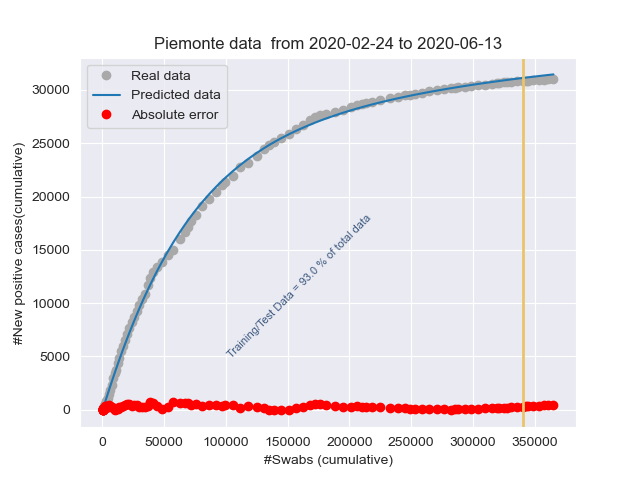
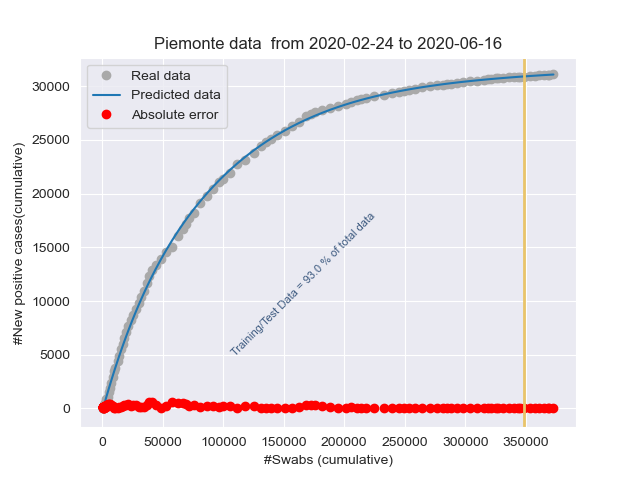
Add files via upload

diff --git a/stat_Emilia-Romagna.html b/stat_Emilia-Romagna.html
@@ -1,1 +1,1 @@
-<!DOCTYPE html><html lang="it"><head><title>Results</title><meta charset="utf-8"><meta name="viewport" content="width=device-width, initial-scale=1"><link rel="stylesheet" href="bootstrap.min.css"><script src="https://ajax.googleapis.com/ajax/libs/jquery/3.4.1/jquery.min.js"></script><script src="https://maxcdn.bootstrapcdn.com/bootstrap/3.4.1/js/bootstrap.min.js"></script></head><body><h3>Day: 2020-06-13</h3><p class="lead my-3">New positive cases: <b>28</b></p><p class="lead my-3">Variation of positive cases: <b>-15.15%</b></p><p class="lead my-3">Number of swabs: <b>7363.0</b></p><p class="lead my-3">Variation of swabs: <b>1.87%</b></p><p class="lead my-3">Postive cases/Swabs: <b>0.38 %</b></p><p class="lead my-3">Number of people admitted to Intensive care: <b>15</b></p><p class="lead my-3">Number of recovered people: <b>115.0</b></p><p class="lead my-3">Number of dead people: <b>3.0</b></p><h3>Total</h3><p class="lead my-3">Population of  Emilia-Romagna: <b>4459477</b> <a href="http://dati.istat.it/Index.aspx?QueryId=18548" target="_blank">ISTAT data</a></p><p class="lead my-3">Total number of positive cases from 2020-02-24 00:00:00 to 2020-06-13: <b> 28056</b></p><p class="lead my-3">Total number of swabs from 2020-02-24 00:00:00 to 2020-06-13: <b> 400902</b></p><p class="lead my-3">TotalSwabs/Population: <b> 8.99%</b></p></body></html>
+<!DOCTYPE html><html lang="it"><head><title>Results</title><meta charset="utf-8"><meta name="viewport" content="width=device-width, initial-scale=1"><link rel="stylesheet" href="bootstrap.min.css"><script src="https://ajax.googleapis.com/ajax/libs/jquery/3.4.1/jquery.min.js"></script><script src="https://maxcdn.bootstrapcdn.com/bootstrap/3.4.1/js/bootstrap.min.js"></script></head><body><h3>Day: 2020-06-16</h3><p class="lead my-3">New positive cases: <b>13</b></p><p class="lead my-3">Variation of positive cases: <b>18.18%</b></p><p class="lead my-3">Number of swabs: <b>6200.0</b></p><p class="lead my-3">Variation of swabs: <b>1.51%</b></p><p class="lead my-3">Postive cases/Swabs: <b>0.21 %</b></p><p class="lead my-3">Number of people admitted to Intensive care: <b>11</b></p><p class="lead my-3">Number of recovered people: <b>106.0</b></p><p class="lead my-3">Number of dead people: <b>2.0</b></p><h3>Total</h3><p class="lead my-3">Population of  Emilia-Romagna: <b>4459477</b> <a href="http://dati.istat.it/Index.aspx?QueryId=18548" target="_blank">ISTAT data</a></p><p class="lead my-3">Total number of positive cases from 2020-02-24 00:00:00 to 2020-06-16: <b> 28097</b></p><p class="lead my-3">Total number of swabs from 2020-02-24 00:00:00 to 2020-06-16: <b> 417184</b></p><p class="lead my-3">TotalSwabs/Population: <b> 9.35%</b></p></body></html>

diff --git a/stat_Friuli Venezia Giulia.html b/stat_Friuli Venezia Giulia.html
@@ -1,1 +1,1 @@
-<!DOCTYPE html><html lang="it"><head><title>Results</title><meta charset="utf-8"><meta name="viewport" content="width=device-width, initial-scale=1"><link rel="stylesheet" href="bootstrap.min.css"><script src="https://ajax.googleapis.com/ajax/libs/jquery/3.4.1/jquery.min.js"></script><script src="https://maxcdn.bootstrapcdn.com/bootstrap/3.4.1/js/bootstrap.min.js"></script></head><body><h3>Day: 2020-06-13</h3><p class="lead my-3">New positive cases: <b>6</b></p><p class="lead my-3">Variation of positive cases: <b>100.0%</b></p><p class="lead my-3">Number of swabs: <b>961.0</b></p><p class="lead my-3">Variation of swabs: <b>0.61%</b></p><p class="lead my-3">Postive cases/Swabs: <b>0.62 %</b></p><p class="lead my-3">Number of people admitted to Intensive care: <b>0</b></p><p class="lead my-3">Number of recovered people: <b>8.0</b></p><p class="lead my-3">Number of dead people: <b>1.0</b></p><h3>Total</h3><p class="lead my-3">Population of  Friuli Venezia Giulia: <b>1215220</b> <a href="http://dati.istat.it/Index.aspx?QueryId=18548" target="_blank">ISTAT data</a></p><p class="lead my-3">Total number of positive cases from 2020-02-24 00:00:00 to 2020-06-13: <b> 3296</b></p><p class="lead my-3">Total number of swabs from 2020-02-24 00:00:00 to 2020-06-13: <b> 158870</b></p><p class="lead my-3">TotalSwabs/Population: <b> 13.07%</b></p></body></html>
+<!DOCTYPE html><html lang="it"><head><title>Results</title><meta charset="utf-8"><meta name="viewport" content="width=device-width, initial-scale=1"><link rel="stylesheet" href="bootstrap.min.css"><script src="https://ajax.googleapis.com/ajax/libs/jquery/3.4.1/jquery.min.js"></script><script src="https://maxcdn.bootstrapcdn.com/bootstrap/3.4.1/js/bootstrap.min.js"></script></head><body><h3>Day: 2020-06-16</h3><p class="lead my-3">New positive cases: <b>1</b></p><p class="lead my-3">Variation of positive cases: <b>inf%</b></p><p class="lead my-3">Number of swabs: <b>495.0</b></p><p class="lead my-3">Variation of swabs: <b>0.31%</b></p><p class="lead my-3">Postive cases/Swabs: <b>0.2 %</b></p><p class="lead my-3">Number of people admitted to Intensive care: <b>0</b></p><p class="lead my-3">Number of recovered people: <b>1.0</b></p><p class="lead my-3">Number of dead people: <b>0.0</b></p><h3>Total</h3><p class="lead my-3">Population of  Friuli Venezia Giulia: <b>1215220</b> <a href="http://dati.istat.it/Index.aspx?QueryId=18548" target="_blank">ISTAT data</a></p><p class="lead my-3">Total number of positive cases from 2020-02-24 00:00:00 to 2020-06-16: <b> 3297</b></p><p class="lead my-3">Total number of swabs from 2020-02-24 00:00:00 to 2020-06-16: <b> 162440</b></p><p class="lead my-3">TotalSwabs/Population: <b> 13.37%</b></p></body></html>

diff --git a/stat_Italy.html b/stat_Italy.html
@@ -1,1 +1,1 @@
-<!DOCTYPE html><html lang="it"><head><title>Results</title><meta charset="utf-8"><meta name="viewport" content="width=device-width, initial-scale=1"><link rel="stylesheet" href="bootstrap.min.css"><script src="https://ajax.googleapis.com/ajax/libs/jquery/3.4.1/jquery.min.js"></script><script src="https://maxcdn.bootstrapcdn.com/bootstrap/3.4.1/js/bootstrap.min.js"></script></head><body><h3>Day: 2020-06-13</h3><p class="lead my-3">New positive cases: <b>346</b></p><p class="lead my-3">Variation of positive cases: <b>112.27%</b></p><p class="lead my-3">Number of swabs: <b>49750.0</b></p><p class="lead my-3">Variation of swabs: <b>1.1%</b></p><p class="lead my-3">Postive cases/Swabs: <b>0.7 %</b></p><p class="lead my-3">Number of people admitted to Intensive care: <b>220</b></p><p class="lead my-3">Number of recovered people: <b>1780.0</b></p><p class="lead my-3">Number of dead people: <b>78.0</b></p><h3>Total</h3><p class="lead my-3">Population of  Italy: <b>60359546</b> <a href="http://dati.istat.it/Index.aspx?QueryId=18548" target="_blank">ISTAT data</a></p><p class="lead my-3">Total number of positive cases from 2020-02-24 00:00:00 to 2020-06-13: <b> 236643</b></p><p class="lead my-3">Total number of swabs from 2020-02-24 00:00:00 to 2020-06-13: <b> 4564191</b></p><p class="lead my-3">TotalSwabs/Population: <b> 7.56%</b></p></body></html>
+<!DOCTYPE html><html lang="it"><head><title>Results</title><meta charset="utf-8"><meta name="viewport" content="width=device-width, initial-scale=1"><link rel="stylesheet" href="bootstrap.min.css"><script src="https://ajax.googleapis.com/ajax/libs/jquery/3.4.1/jquery.min.js"></script><script src="https://maxcdn.bootstrapcdn.com/bootstrap/3.4.1/js/bootstrap.min.js"></script></head><body><h3>Day: 2020-06-16</h3><p class="lead my-3">New positive cases: <b>210</b></p><p class="lead my-3">Variation of positive cases: <b>-30.69%</b></p><p class="lead my-3">Number of swabs: <b>46882.0</b></p><p class="lead my-3">Variation of swabs: <b>1.01%</b></p><p class="lead my-3">Postive cases/Swabs: <b>0.45 %</b></p><p class="lead my-3">Number of people admitted to Intensive care: <b>177</b></p><p class="lead my-3">Number of recovered people: <b>1516.0</b></p><p class="lead my-3">Number of dead people: <b>34.0</b></p><h3>Total</h3><p class="lead my-3">Population of  Italy: <b>60359546</b> <a href="http://dati.istat.it/Index.aspx?QueryId=18548" target="_blank">ISTAT data</a></p><p class="lead my-3">Total number of positive cases from 2020-02-24 00:00:00 to 2020-06-16: <b> 237494</b></p><p class="lead my-3">Total number of swabs from 2020-02-24 00:00:00 to 2020-06-16: <b> 4695707</b></p><p class="lead my-3">TotalSwabs/Population: <b> 7.78%</b></p></body></html>

diff --git a/stat_Lombardia.html b/stat_Lombardia.html
@@ -1,1 +1,1 @@
-<!DOCTYPE html><html lang="it"><head><title>Results</title><meta charset="utf-8"><meta name="viewport" content="width=device-width, initial-scale=1"><link rel="stylesheet" href="bootstrap.min.css"><script src="https://ajax.googleapis.com/ajax/libs/jquery/3.4.1/jquery.min.js"></script><script src="https://maxcdn.bootstrapcdn.com/bootstrap/3.4.1/js/bootstrap.min.js"></script></head><body><h3>Day: 2020-06-13</h3><p class="lead my-3">New positive cases: <b>210</b></p><p class="lead my-3">Variation of positive cases: <b>-22.79%</b></p><p class="lead my-3">Number of swabs: <b>9474.0</b></p><p class="lead my-3">Variation of swabs: <b>1.08%</b></p><p class="lead my-3">Postive cases/Swabs: <b>2.22 %</b></p><p class="lead my-3">Number of people admitted to Intensive care: <b>96</b></p><p class="lead my-3">Number of recovered people: <b>426.0</b></p><p class="lead my-3">Number of dead people: <b>23.0</b></p><h3>Total</h3><p class="lead my-3">Population of  Lombardia: <b>10060574</b> <a href="http://dati.istat.it/Index.aspx?QueryId=18548" target="_blank">ISTAT data</a></p><p class="lead my-3">Total number of positive cases from 2020-02-24 00:00:00 to 2020-06-13: <b> 91408</b></p><p class="lead my-3">Total number of swabs from 2020-02-24 00:00:00 to 2020-06-13: <b> 883305</b></p><p class="lead my-3">TotalSwabs/Population: <b> 8.78%</b></p></body></html>
+<!DOCTYPE html><html lang="it"><head><title>Results</title><meta charset="utf-8"><meta name="viewport" content="width=device-width, initial-scale=1"><link rel="stylesheet" href="bootstrap.min.css"><script src="https://ajax.googleapis.com/ajax/libs/jquery/3.4.1/jquery.min.js"></script><script src="https://maxcdn.bootstrapcdn.com/bootstrap/3.4.1/js/bootstrap.min.js"></script></head><body><h3>Day: 2020-06-16</h3><p class="lead my-3">New positive cases: <b>143</b></p><p class="lead my-3">Variation of positive cases: <b>-44.79%</b></p><p class="lead my-3">Number of swabs: <b>7044.0</b></p><p class="lead my-3">Variation of swabs: <b>0.78%</b></p><p class="lead my-3">Postive cases/Swabs: <b>2.03 %</b></p><p class="lead my-3">Number of people admitted to Intensive care: <b>69</b></p><p class="lead my-3">Number of recovered people: <b>877.0</b></p><p class="lead my-3">Number of dead people: <b>9.0</b></p><h3>Total</h3><p class="lead my-3">Population of  Lombardia: <b>10060574</b> <a href="http://dati.istat.it/Index.aspx?QueryId=18548" target="_blank">ISTAT data</a></p><p class="lead my-3">Total number of positive cases from 2020-02-24 00:00:00 to 2020-06-16: <b> 92054</b></p><p class="lead my-3">Total number of swabs from 2020-02-24 00:00:00 to 2020-06-16: <b> 906322</b></p><p class="lead my-3">TotalSwabs/Population: <b> 9.01%</b></p></body></html>

diff --git a/stat_Piemonte.html b/stat_Piemonte.html
@@ -1,1 +1,1 @@
-<!DOCTYPE html><html lang="it"><head><title>Results</title><meta charset="utf-8"><meta name="viewport" content="width=device-width, initial-scale=1"><link rel="stylesheet" href="bootstrap.min.css"><script src="https://ajax.googleapis.com/ajax/libs/jquery/3.4.1/jquery.min.js"></script><script src="https://maxcdn.bootstrapcdn.com/bootstrap/3.4.1/js/bootstrap.min.js"></script></head><body><h3>Day: 2020-06-13</h3><p class="lead my-3">New positive cases: <b>40</b></p><p class="lead my-3">Variation of positive cases: <b>29.03%</b></p><p class="lead my-3">Number of swabs: <b>4059.0</b></p><p class="lead my-3">Variation of swabs: <b>1.12%</b></p><p class="lead my-3">Postive cases/Swabs: <b>0.99 %</b></p><p class="lead my-3">Number of people admitted to Intensive care: <b>27</b></p><p class="lead my-3">Number of recovered people: <b>107.0</b></p><p class="lead my-3">Number of dead people: <b>10.0</b></p><h3>Total</h3><p class="lead my-3">Population of  Piemonte: <b>4356406</b> <a href="http://dati.istat.it/Index.aspx?QueryId=18548" target="_blank">ISTAT data</a></p><p class="lead my-3">Total number of positive cases from 2020-02-24 00:00:00 to 2020-06-13: <b> 31029</b></p><p class="lead my-3">Total number of swabs from 2020-02-24 00:00:00 to 2020-06-13: <b> 365223</b></p><p class="lead my-3">TotalSwabs/Population: <b> 8.38%</b></p></body></html>
+<!DOCTYPE html><html lang="it"><head><title>Results</title><meta charset="utf-8"><meta name="viewport" content="width=device-width, initial-scale=1"><link rel="stylesheet" href="bootstrap.min.css"><script src="https://ajax.googleapis.com/ajax/libs/jquery/3.4.1/jquery.min.js"></script><script src="https://maxcdn.bootstrapcdn.com/bootstrap/3.4.1/js/bootstrap.min.js"></script></head><body><h3>Day: 2020-06-16</h3><p class="lead my-3">New positive cases: <b>29</b></p><p class="lead my-3">Variation of positive cases: <b>1350.0%</b></p><p class="lead my-3">Number of swabs: <b>3654.0</b></p><p class="lead my-3">Variation of swabs: <b>0.99%</b></p><p class="lead my-3">Postive cases/Swabs: <b>0.79 %</b></p><p class="lead my-3">Number of people admitted to Intensive care: <b>28</b></p><p class="lead my-3">Number of recovered people: <b>177.0</b></p><p class="lead my-3">Number of dead people: <b>6.0</b></p><h3>Total</h3><p class="lead my-3">Population of  Piemonte: <b>4356406</b> <a href="http://dati.istat.it/Index.aspx?QueryId=18548" target="_blank">ISTAT data</a></p><p class="lead my-3">Total number of positive cases from 2020-02-24 00:00:00 to 2020-06-16: <b> 31090</b></p><p class="lead my-3">Total number of swabs from 2020-02-24 00:00:00 to 2020-06-16: <b> 372948</b></p><p class="lead my-3">TotalSwabs/Population: <b> 8.56%</b></p></body></html>

diff --git a/stat_P.A. Trento.html b/stat_P.A. Trento.html
@@ -1,1 +1,1 @@
-<!DOCTYPE html><html lang="it"><head><title>Results</title><meta charset="utf-8"><meta name="viewport" content="width=device-width, initial-scale=1"><link rel="stylesheet" href="bootstrap.min.css"><script src="https://ajax.googleapis.com/ajax/libs/jquery/3.4.1/jquery.min.js"></script><script src="https://maxcdn.bootstrapcdn.com/bootstrap/3.4.1/js/bootstrap.min.js"></script></head><body><h3>Day: 2020-06-13</h3><p class="lead my-3">New positive cases: <b>3</b></p><p class="lead my-3">Variation of positive cases: <b>50.0%</b></p><p class="lead my-3">Number of swabs: <b>1738.0</b></p><p class="lead my-3">Variation of swabs: <b>1.73%</b></p><p class="lead my-3">Postive cases/Swabs: <b>0.17 %</b></p><p class="lead my-3">Number of people admitted to Intensive care: <b>1</b></p><p class="lead my-3">Number of recovered people: <b>1.0</b></p><p class="lead my-3">Number of dead people: <b>0.0</b></p><h3>Total</h3><p class="lead my-3">Population of  P.A. Trento: <b>541098</b> <a href="http://dati.istat.it/Index.aspx?QueryId=18548" target="_blank">ISTAT data</a></p><p class="lead my-3">Total number of positive cases from 2020-02-24 00:00:00 to 2020-06-13: <b> 4446</b></p><p class="lead my-3">Total number of swabs from 2020-02-24 00:00:00 to 2020-06-13: <b> 102138</b></p><p class="lead my-3">TotalSwabs/Population: <b> 18.88%</b></p></body></html>
+<!DOCTYPE html><html lang="it"><head><title>Results</title><meta charset="utf-8"><meta name="viewport" content="width=device-width, initial-scale=1"><link rel="stylesheet" href="bootstrap.min.css"><script src="https://ajax.googleapis.com/ajax/libs/jquery/3.4.1/jquery.min.js"></script><script src="https://maxcdn.bootstrapcdn.com/bootstrap/3.4.1/js/bootstrap.min.js"></script></head><body><h3>Day: 2020-06-16</h3><p class="lead my-3">New positive cases: <b>0</b></p><p class="lead my-3">Variation of positive cases: <b>-100.0%</b></p><p class="lead my-3">Number of swabs: <b>390.0</b></p><p class="lead my-3">Variation of swabs: <b>0.37%</b></p><p class="lead my-3">Postive cases/Swabs: <b>0.0 %</b></p><p class="lead my-3">Number of people admitted to Intensive care: <b>0</b></p><p class="lead my-3">Number of recovered people: <b>2.0</b></p><p class="lead my-3">Number of dead people: <b>0.0</b></p><h3>Total</h3><p class="lead my-3">Population of  P.A. Trento: <b>541098</b> <a href="http://dati.istat.it/Index.aspx?QueryId=18548" target="_blank">ISTAT data</a></p><p class="lead my-3">Total number of positive cases from 2020-02-24 00:00:00 to 2020-06-16: <b> 4448</b></p><p class="lead my-3">Total number of swabs from 2020-02-24 00:00:00 to 2020-06-16: <b> 104696</b></p><p class="lead my-3">TotalSwabs/Population: <b> 19.35%</b></p></body></html>

diff --git a/stat_Campania.html b/stat_Campania.html
@@ -1,1 +1,1 @@
-<!DOCTYPE html><html lang="it"><head><title>Results</title><meta charset="utf-8"><meta name="viewport" content="width=device-width, initial-scale=1"><link rel="stylesheet" href="bootstrap.min.css"><script src="https://ajax.googleapis.com/ajax/libs/jquery/3.4.1/jquery.min.js"></script><script src="https://maxcdn.bootstrapcdn.com/bootstrap/3.4.1/js/bootstrap.min.js"></script></head><body><h3>Day: 2020-06-13</h3><p class="lead my-3">New positive cases: <b>0</b></p><p class="lead my-3">Variation of positive cases: <b>-100.0%</b></p><p class="lead my-3">Number of swabs: <b>4115.0</b></p><p class="lead my-3">Variation of swabs: <b>1.78%</b></p><p class="lead my-3">Postive cases/Swabs: <b>0.0 %</b></p><p class="lead my-3">Number of people admitted to Intensive care: <b>2</b></p><p class="lead my-3">Number of recovered people: <b>9.0</b></p><p class="lead my-3">Number of dead people: <b>0.0</b></p><h3>Total</h3><p class="lead my-3">Population of  Campania: <b>5801692</b> <a href="http://dati.istat.it/Index.aspx?QueryId=18548" target="_blank">ISTAT data</a></p><p class="lead my-3">Total number of positive cases from 2020-02-24 00:00:00 to 2020-06-13: <b> 4608</b></p><p class="lead my-3">Total number of swabs from 2020-02-24 00:00:00 to 2020-06-13: <b> 234666</b></p><p class="lead my-3">TotalSwabs/Population: <b> 4.04%</b></p></body></html>
+<!DOCTYPE html><html lang="it"><head><title>Results</title><meta charset="utf-8"><meta name="viewport" content="width=device-width, initial-scale=1"><link rel="stylesheet" href="bootstrap.min.css"><script src="https://ajax.googleapis.com/ajax/libs/jquery/3.4.1/jquery.min.js"></script><script src="https://maxcdn.bootstrapcdn.com/bootstrap/3.4.1/js/bootstrap.min.js"></script></head><body><h3>Day: 2020-06-16</h3><p class="lead my-3">New positive cases: <b>0</b></p><p class="lead my-3">Variation of positive cases: <b>-100.0%</b></p><p class="lead my-3">Number of swabs: <b>1282.0</b></p><p class="lead my-3">Variation of swabs: <b>0.53%</b></p><p class="lead my-3">Postive cases/Swabs: <b>0.0 %</b></p><p class="lead my-3">Number of people admitted to Intensive care: <b>2</b></p><p class="lead my-3">Number of recovered people: <b>16.0</b></p><p class="lead my-3">Number of dead people: <b>0.0</b></p><h3>Total</h3><p class="lead my-3">Population of  Campania: <b>5801692</b> <a href="http://dati.istat.it/Index.aspx?QueryId=18548" target="_blank">ISTAT data</a></p><p class="lead my-3">Total number of positive cases from 2020-02-24 00:00:00 to 2020-06-16: <b> 4613</b></p><p class="lead my-3">Total number of swabs from 2020-02-24 00:00:00 to 2020-06-16: <b> 242662</b></p><p class="lead my-3">TotalSwabs/Population: <b> 4.18%</b></p></body></html>

diff --git a/stat_Lazio.html b/stat_Lazio.html
@@ -1,1 +1,1 @@
-<!DOCTYPE html><html lang="it"><head><title>Results</title><meta charset="utf-8"><meta name="viewport" content="width=device-width, initial-scale=1"><link rel="stylesheet" href="bootstrap.min.css"><script src="https://ajax.googleapis.com/ajax/libs/jquery/3.4.1/jquery.min.js"></script><script src="https://maxcdn.bootstrapcdn.com/bootstrap/3.4.1/js/bootstrap.min.js"></script></head><body><h3>Day: 2020-06-13</h3><p class="lead my-3">New positive cases: <b>25</b></p><p class="lead my-3">Variation of positive cases: <b>-7.41%</b></p><p class="lead my-3">Number of swabs: <b>2785.0</b></p><p class="lead my-3">Variation of swabs: <b>0.95%</b></p><p class="lead my-3">Postive cases/Swabs: <b>0.9 %</b></p><p class="lead my-3">Number of people admitted to Intensive care: <b>45</b></p><p class="lead my-3">Number of recovered people: <b>865.0</b></p><p class="lead my-3">Number of dead people: <b>25.0</b></p><h3>Total</h3><p class="lead my-3">Population of  Lazio: <b>5879082</b> <a href="http://dati.istat.it/Index.aspx?QueryId=18548" target="_blank">ISTAT data</a></p><p class="lead my-3">Total number of positive cases from 2020-02-24 00:00:00 to 2020-06-13: <b> 7940</b></p><p class="lead my-3">Total number of swabs from 2020-02-24 00:00:00 to 2020-06-13: <b> 294654</b></p><p class="lead my-3">TotalSwabs/Population: <b> 5.01%</b></p></body></html>
+<!DOCTYPE html><html lang="it"><head><title>Results</title><meta charset="utf-8"><meta name="viewport" content="width=device-width, initial-scale=1"><link rel="stylesheet" href="bootstrap.min.css"><script src="https://ajax.googleapis.com/ajax/libs/jquery/3.4.1/jquery.min.js"></script><script src="https://maxcdn.bootstrapcdn.com/bootstrap/3.4.1/js/bootstrap.min.js"></script></head><body><h3>Day: 2020-06-16</h3><p class="lead my-3">New positive cases: <b>9</b></p><p class="lead my-3">Variation of positive cases: <b>200.0%</b></p><p class="lead my-3">Number of swabs: <b>2715.0</b></p><p class="lead my-3">Variation of swabs: <b>0.91%</b></p><p class="lead my-3">Postive cases/Swabs: <b>0.33 %</b></p><p class="lead my-3">Number of people admitted to Intensive care: <b>38</b></p><p class="lead my-3">Number of recovered people: <b>169.0</b></p><p class="lead my-3">Number of dead people: <b>3.0</b></p><h3>Total</h3><p class="lead my-3">Population of  Lazio: <b>5879082</b> <a href="http://dati.istat.it/Index.aspx?QueryId=18548" target="_blank">ISTAT data</a></p><p class="lead my-3">Total number of positive cases from 2020-02-24 00:00:00 to 2020-06-16: <b> 7966</b></p><p class="lead my-3">Total number of swabs from 2020-02-24 00:00:00 to 2020-06-16: <b> 302305</b></p><p class="lead my-3">TotalSwabs/Population: <b> 5.14%</b></p></body></html>

diff --git a/stat_Toscana.html b/stat_Toscana.html
@@ -1,1 +1,1 @@
-<!DOCTYPE html><html lang="it"><head><title>Results</title><meta charset="utf-8"><meta name="viewport" content="width=device-width, initial-scale=1"><link rel="stylesheet" href="bootstrap.min.css"><script src="https://ajax.googleapis.com/ajax/libs/jquery/3.4.1/jquery.min.js"></script><script src="https://maxcdn.bootstrapcdn.com/bootstrap/3.4.1/js/bootstrap.min.js"></script></head><body><h3>Day: 2020-06-13</h3><p class="lead my-3">New positive cases: <b>7</b></p><p class="lead my-3">Variation of positive cases: <b>0.0%</b></p><p class="lead my-3">Number of swabs: <b>2831.0</b></p><p class="lead my-3">Variation of swabs: <b>0.99%</b></p><p class="lead my-3">Postive cases/Swabs: <b>0.25 %</b></p><p class="lead my-3">Number of people admitted to Intensive care: <b>16</b></p><p class="lead my-3">Number of recovered people: <b>13.0</b></p><p class="lead my-3">Number of dead people: <b>2.0</b></p><h3>Total</h3><p class="lead my-3">Population of  Toscana: <b>3729641</b> <a href="http://dati.istat.it/Index.aspx?QueryId=18548" target="_blank">ISTAT data</a></p><p class="lead my-3">Total number of positive cases from 2020-02-24 00:00:00 to 2020-06-13: <b> 10172</b></p><p class="lead my-3">Total number of swabs from 2020-02-24 00:00:00 to 2020-06-13: <b> 289524</b></p><p class="lead my-3">TotalSwabs/Population: <b> 7.76%</b></p></body></html>
+<!DOCTYPE html><html lang="it"><head><title>Results</title><meta charset="utf-8"><meta name="viewport" content="width=device-width, initial-scale=1"><link rel="stylesheet" href="bootstrap.min.css"><script src="https://ajax.googleapis.com/ajax/libs/jquery/3.4.1/jquery.min.js"></script><script src="https://maxcdn.bootstrapcdn.com/bootstrap/3.4.1/js/bootstrap.min.js"></script></head><body><h3>Day: 2020-06-16</h3><p class="lead my-3">New positive cases: <b>3</b></p><p class="lead my-3">Variation of positive cases: <b>-62.5%</b></p><p class="lead my-3">Number of swabs: <b>3129.0</b></p><p class="lead my-3">Variation of swabs: <b>1.07%</b></p><p class="lead my-3">Postive cases/Swabs: <b>0.1 %</b></p><p class="lead my-3">Number of people admitted to Intensive care: <b>14</b></p><p class="lead my-3">Number of recovered people: <b>26.0</b></p><p class="lead my-3">Number of dead people: <b>3.0</b></p><h3>Total</h3><p class="lead my-3">Population of  Toscana: <b>3729641</b> <a href="http://dati.istat.it/Index.aspx?QueryId=18548" target="_blank">ISTAT data</a></p><p class="lead my-3">Total number of positive cases from 2020-02-24 00:00:00 to 2020-06-16: <b> 10191</b></p><p class="lead my-3">Total number of swabs from 2020-02-24 00:00:00 to 2020-06-16: <b> 296812</b></p><p class="lead my-3">TotalSwabs/Population: <b> 7.96%</b></p></body></html>

diff --git a/stat_Veneto.html b/stat_Veneto.html
@@ -1,1 +1,1 @@
-<!DOCTYPE html><html lang="it"><head><title>Results</title><meta charset="utf-8"><meta name="viewport" content="width=device-width, initial-scale=1"><link rel="stylesheet" href="bootstrap.min.css"><script src="https://ajax.googleapis.com/ajax/libs/jquery/3.4.1/jquery.min.js"></script><script src="https://maxcdn.bootstrapcdn.com/bootstrap/3.4.1/js/bootstrap.min.js"></script></head><body><h3>Day: 2020-06-13</h3><p class="lead my-3">New positive cases: <b>13</b></p><p class="lead my-3">Variation of positive cases: <b>inf%</b></p><p class="lead my-3">Number of swabs: <b>3030.0</b></p><p class="lead my-3">Variation of swabs: <b>0.38%</b></p><p class="lead my-3">Postive cases/Swabs: <b>0.43 %</b></p><p class="lead my-3">Number of people admitted to Intensive care: <b>1</b></p><p class="lead my-3">Number of recovered people: <b>74.0</b></p><p class="lead my-3">Number of dead people: <b>10.0</b></p><h3>Total</h3><p class="lead my-3">Population of  Veneto: <b>4905854</b> <a href="http://dati.istat.it/Index.aspx?QueryId=18548" target="_blank">ISTAT data</a></p><p class="lead my-3">Total number of positive cases from 2020-02-24 00:00:00 to 2020-06-13: <b> 19211</b></p><p class="lead my-3">Total number of swabs from 2020-02-24 00:00:00 to 2020-06-13: <b> 798290</b></p><p class="lead my-3">TotalSwabs/Population: <b> 16.27%</b></p></body></html>
+<!DOCTYPE html><html lang="it"><head><title>Results</title><meta charset="utf-8"><meta name="viewport" content="width=device-width, initial-scale=1"><link rel="stylesheet" href="bootstrap.min.css"><script src="https://ajax.googleapis.com/ajax/libs/jquery/3.4.1/jquery.min.js"></script><script src="https://maxcdn.bootstrapcdn.com/bootstrap/3.4.1/js/bootstrap.min.js"></script></head><body><h3>Day: 2020-06-16</h3><p class="lead my-3">New positive cases: <b>1</b></p><p class="lead my-3">Variation of positive cases: <b>0.0%</b></p><p class="lead my-3">Number of swabs: <b>9128.0</b></p><p class="lead my-3">Variation of swabs: <b>1.12%</b></p><p class="lead my-3">Postive cases/Swabs: <b>0.01 %</b></p><p class="lead my-3">Number of people admitted to Intensive care: <b>1</b></p><p class="lead my-3">Number of recovered people: <b>34.0</b></p><p class="lead my-3">Number of dead people: <b>4.0</b></p><h3>Total</h3><p class="lead my-3">Population of  Veneto: <b>4905854</b> <a href="http://dati.istat.it/Index.aspx?QueryId=18548" target="_blank">ISTAT data</a></p><p class="lead my-3">Total number of positive cases from 2020-02-24 00:00:00 to 2020-06-16: <b> 19220</b></p><p class="lead my-3">Total number of swabs from 2020-02-24 00:00:00 to 2020-06-16: <b> 826192</b></p><p class="lead my-3">TotalSwabs/Population: <b> 16.84%</b></p></body></html>

diff --git a/stat_P.A. Bolzano.html b/stat_P.A. Bolzano.html
@@ -1,1 +1,1 @@
-<!DOCTYPE html><html lang="it"><head><title>Results</title><meta charset="utf-8"><meta name="viewport" content="width=device-width, initial-scale=1"><link rel="stylesheet" href="bootstrap.min.css"><script src="https://ajax.googleapis.com/ajax/libs/jquery/3.4.1/jquery.min.js"></script><script src="https://maxcdn.bootstrapcdn.com/bootstrap/3.4.1/js/bootstrap.min.js"></script></head><body><h3>Day: 2020-06-13</h3><p class="lead my-3">New positive cases: <b>2</b></p><p class="lead my-3">Variation of positive cases: <b>0.0%</b></p><p class="lead my-3">Number of swabs: <b>876.0</b></p><p class="lead my-3">Variation of swabs: <b>1.17%</b></p><p class="lead my-3">Postive cases/Swabs: <b>0.23 %</b></p><p class="lead my-3">Number of people admitted to Intensive care: <b>2</b></p><p class="lead my-3">Number of recovered people: <b>8.0</b></p><p class="lead my-3">Number of dead people: <b>0.0</b></p><h3>Total</h3><p class="lead my-3">Population of  P.A. Bolzano: <b>531178</b> <a href="http://dati.istat.it/Index.aspx?QueryId=18548" target="_blank">ISTAT data</a></p><p class="lead my-3">Total number of positive cases from 2020-02-24 00:00:00 to 2020-06-13: <b> 2610</b></p><p class="lead my-3">Total number of swabs from 2020-02-24 00:00:00 to 2020-06-13: <b> 75735</b></p><p class="lead my-3">TotalSwabs/Population: <b> 14.26%</b></p></body></html>
+<!DOCTYPE html><html lang="it"><head><title>Results</title><meta charset="utf-8"><meta name="viewport" content="width=device-width, initial-scale=1"><link rel="stylesheet" href="bootstrap.min.css"><script src="https://ajax.googleapis.com/ajax/libs/jquery/3.4.1/jquery.min.js"></script><script src="https://maxcdn.bootstrapcdn.com/bootstrap/3.4.1/js/bootstrap.min.js"></script></head><body><h3>Day: 2020-06-16</h3><p class="lead my-3">New positive cases: <b>0</b></p><p class="lead my-3">Variation of positive cases: <b>0.0%</b></p><p class="lead my-3">Number of swabs: <b>316.0</b></p><p class="lead my-3">Variation of swabs: <b>0.41%</b></p><p class="lead my-3">Postive cases/Swabs: <b>0.0 %</b></p><p class="lead my-3">Number of people admitted to Intensive care: <b>1</b></p><p class="lead my-3">Number of recovered people: <b>1.0</b></p><p class="lead my-3">Number of dead people: <b>0.0</b></p><h3>Total</h3><p class="lead my-3">Population of  P.A. Bolzano: <b>531178</b> <a href="http://dati.istat.it/Index.aspx?QueryId=18548" target="_blank">ISTAT data</a></p><p class="lead my-3">Total number of positive cases from 2020-02-24 00:00:00 to 2020-06-16: <b> 2613</b></p><p class="lead my-3">Total number of swabs from 2020-02-24 00:00:00 to 2020-06-16: <b> 76661</b></p><p class="lead my-3">TotalSwabs/Population: <b> 14.43%</b></p></body></html>

diff --git a/stat_Liguria.html b/stat_Liguria.html
@@ -1,1 +1,1 @@
-<!DOCTYPE html><html lang="it"><head><title>Results</title><meta charset="utf-8"><meta name="viewport" content="width=device-width, initial-scale=1"><link rel="stylesheet" href="bootstrap.min.css"><script src="https://ajax.googleapis.com/ajax/libs/jquery/3.4.1/jquery.min.js"></script><script src="https://maxcdn.bootstrapcdn.com/bootstrap/3.4.1/js/bootstrap.min.js"></script></head><body><h3>Day: 2020-06-13</h3><p class="lead my-3">New positive cases: <b>4</b></p><p class="lead my-3">Variation of positive cases: <b>-42.86%</b></p><p class="lead my-3">Number of swabs: <b>1551.0</b></p><p class="lead my-3">Variation of swabs: <b>1.25%</b></p><p class="lead my-3">Postive cases/Swabs: <b>0.26 %</b></p><p class="lead my-3">Number of people admitted to Intensive care: <b>3</b></p><p class="lead my-3">Number of recovered people: <b>7.0</b></p><p class="lead my-3">Number of dead people: <b>2.0</b></p><h3>Total</h3><p class="lead my-3">Population of  Liguria: <b>1550640</b> <a href="http://dati.istat.it/Index.aspx?QueryId=18548" target="_blank">ISTAT data</a></p><p class="lead my-3">Total number of positive cases from 2020-02-24 00:00:00 to 2020-06-13: <b> 9875</b></p><p class="lead my-3">Total number of swabs from 2020-02-24 00:00:00 to 2020-06-13: <b> 125871</b></p><p class="lead my-3">TotalSwabs/Population: <b> 8.12%</b></p></body></html>
+<!DOCTYPE html><html lang="it"><head><title>Results</title><meta charset="utf-8"><meta name="viewport" content="width=device-width, initial-scale=1"><link rel="stylesheet" href="bootstrap.min.css"><script src="https://ajax.googleapis.com/ajax/libs/jquery/3.4.1/jquery.min.js"></script><script src="https://maxcdn.bootstrapcdn.com/bootstrap/3.4.1/js/bootstrap.min.js"></script></head><body><h3>Day: 2020-06-16</h3><p class="lead my-3">New positive cases: <b>4</b></p><p class="lead my-3">Variation of positive cases: <b>-50.0%</b></p><p class="lead my-3">Number of swabs: <b>1336.0</b></p><p class="lead my-3">Variation of swabs: <b>1.04%</b></p><p class="lead my-3">Postive cases/Swabs: <b>0.3 %</b></p><p class="lead my-3">Number of people admitted to Intensive care: <b>2</b></p><p class="lead my-3">Number of recovered people: <b>4.0</b></p><p class="lead my-3">Number of dead people: <b>4.0</b></p><h3>Total</h3><p class="lead my-3">Population of  Liguria: <b>1550640</b> <a href="http://dati.istat.it/Index.aspx?QueryId=18548" target="_blank">ISTAT data</a></p><p class="lead my-3">Total number of positive cases from 2020-02-24 00:00:00 to 2020-06-16: <b> 9891</b></p><p class="lead my-3">Total number of swabs from 2020-02-24 00:00:00 to 2020-06-16: <b> 129249</b></p><p class="lead my-3">TotalSwabs/Population: <b> 8.34%</b></p></body></html>
